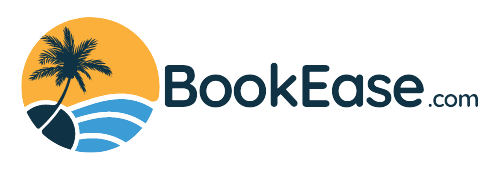
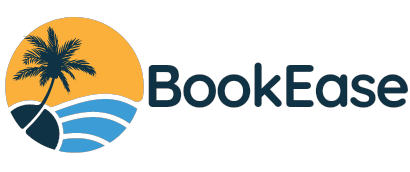
update

Changed region(s): [[0.0, 0.0872, 0.9951, 0.9012]]

diff --git a/client/src/pages/HotelPage.jsx b/client/src/pages/HotelPage.jsx
@@ -243,10 +243,9 @@ export default function HotelPage() {
         </nav>
         <nav style={navbarStyles1}>
           <div>
-            <Link to="/">HOME</Link>›
-            <p>Hotels and more in {location.state.city}</p>
+            <Link to="/">HOME</Link>›<p>Hotels and more in {searchTerm}</p>
           </div>
-          <h1>1000 Properties in {location.state.city}</h1>
+          <h1>1000 Properties in {searchTerm}</h1>
         </nav>
       </Nav1>
       <Nav2 style={navbarStyle2}>
@@ -299,7 +298,7 @@ export default function HotelPage() {
         >
           {/* <Sidebar /> */}
           <HotelList>
-            <h1>Popular in {location.state.city}</h1>
+            <h1>Popular in {searchTerm}</h1>
             {hotelData.map((e) => {
               const mainImage = mainImages[e._id];
               return (

diff --git a/server/routes/email.route.js b/server/routes/email.route.js
@@ -15,7 +15,7 @@ mailRouter.post('/', async (req, res) => {
     const mailOptions = {
         from: 'bookease401@gmail.com',
         to: to,
-        subject: "OTP verification from BookEase.com",
+        subject: "OTP verification from BookEase",
         html: `
         <p>Hi,</p>
         <p>Your OTP is: <strong>${otp}</strong></p>
@@ -23,7 +23,7 @@ mailRouter.post('/', async (req, res) => {
         <p>Note: This OTP is valid for a single use and will expire after a certain period of time.</p>
         <p>If you didn't request this OTP, please ignore this email.</p>
         <p>Regards,</p>
-        <p>BookEase.com</p>
+        <p>BookEase</p>
       `,
     }
     transporter.sendMail(mailOptions, function (err, info) {

diff --git a/client/src/pages/SingleHotelPage.jsx b/client/src/pages/SingleHotelPage.jsx
@@ -18,8 +18,9 @@ export const SingleHotelPage = () => {
   useEffect(() => {
     getHotel();
   }, [param]);
+  console.log(data);
   return (
-    <Div>
+    <>
       {loading ? (
         <div
           style={{
@@ -30,8 +31,18 @@ export const SingleHotelPage = () => {
         >
           <CircularProgress size={80} />
         </div>
-      ) : null}
-    </Div>
+      ) : (
+        <Div>
+          <img id="mainImg" src={data?.image[0]} alt="" />
+        </Div>
+      )}
+    </>
   );
 };
-const Div = styled.div``;
+const Div = styled.div`
+  #mainImg {
+    width: 100%;
+    height: 70vh;
+    object-fit: contain;
+  }
+`;

diff --git a/client/index.html b/client/index.html
@@ -5,7 +5,7 @@
   <meta charset="UTF-8" />
   <link rel="icon" type="image/svg+xml" href="./src/Image/BookEase (1)-fotor-20230626232842.png" />
   <meta name="viewport" content="width=device-width, initial-scale=1.0" />
-  <title>BookEase.com | Flight | Hotel | Train | Bus</title>
+  <title>BookEase | Flight | Hotel | Train | Bus</title>
   <link rel="preconnect" href="https://fonts.googleapis.com">
   <link rel="preconnect" href="https://fonts.gstatic.com" crossorigin>
   <link

diff --git a/client/src/components/url.js b/client/src/components/url.js
@@ -1,2 +1,2 @@
-export const url = 'https://bookease.onrender.com'
-// http://localhost:5000
+// export const url = 'https://bookease.onrender.com'
+export const url = 'http://localhost:5000'
